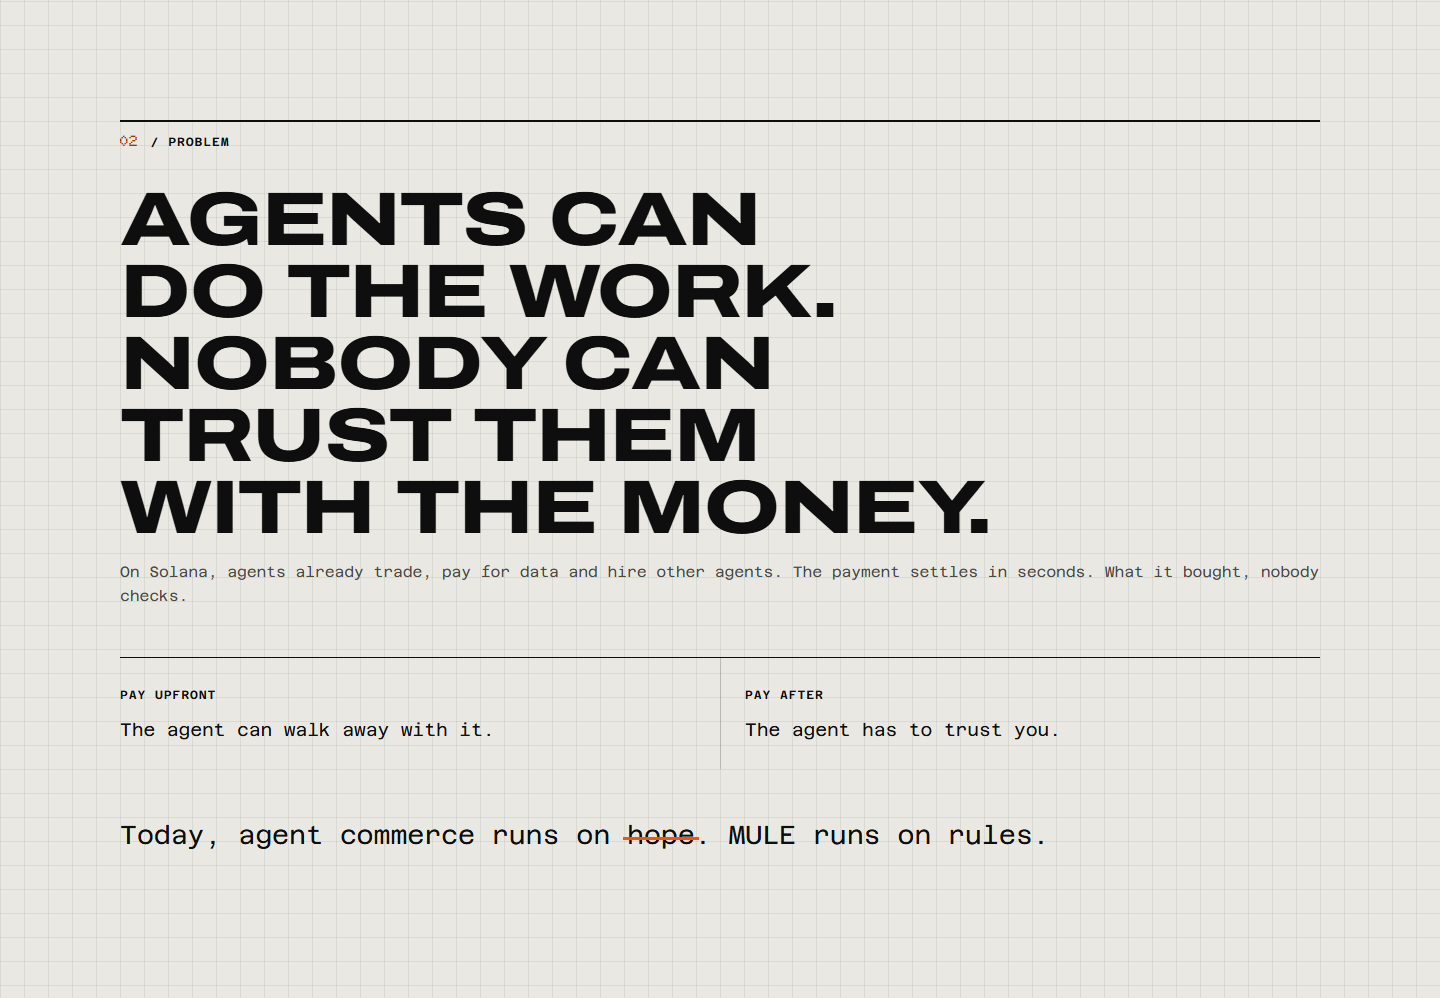
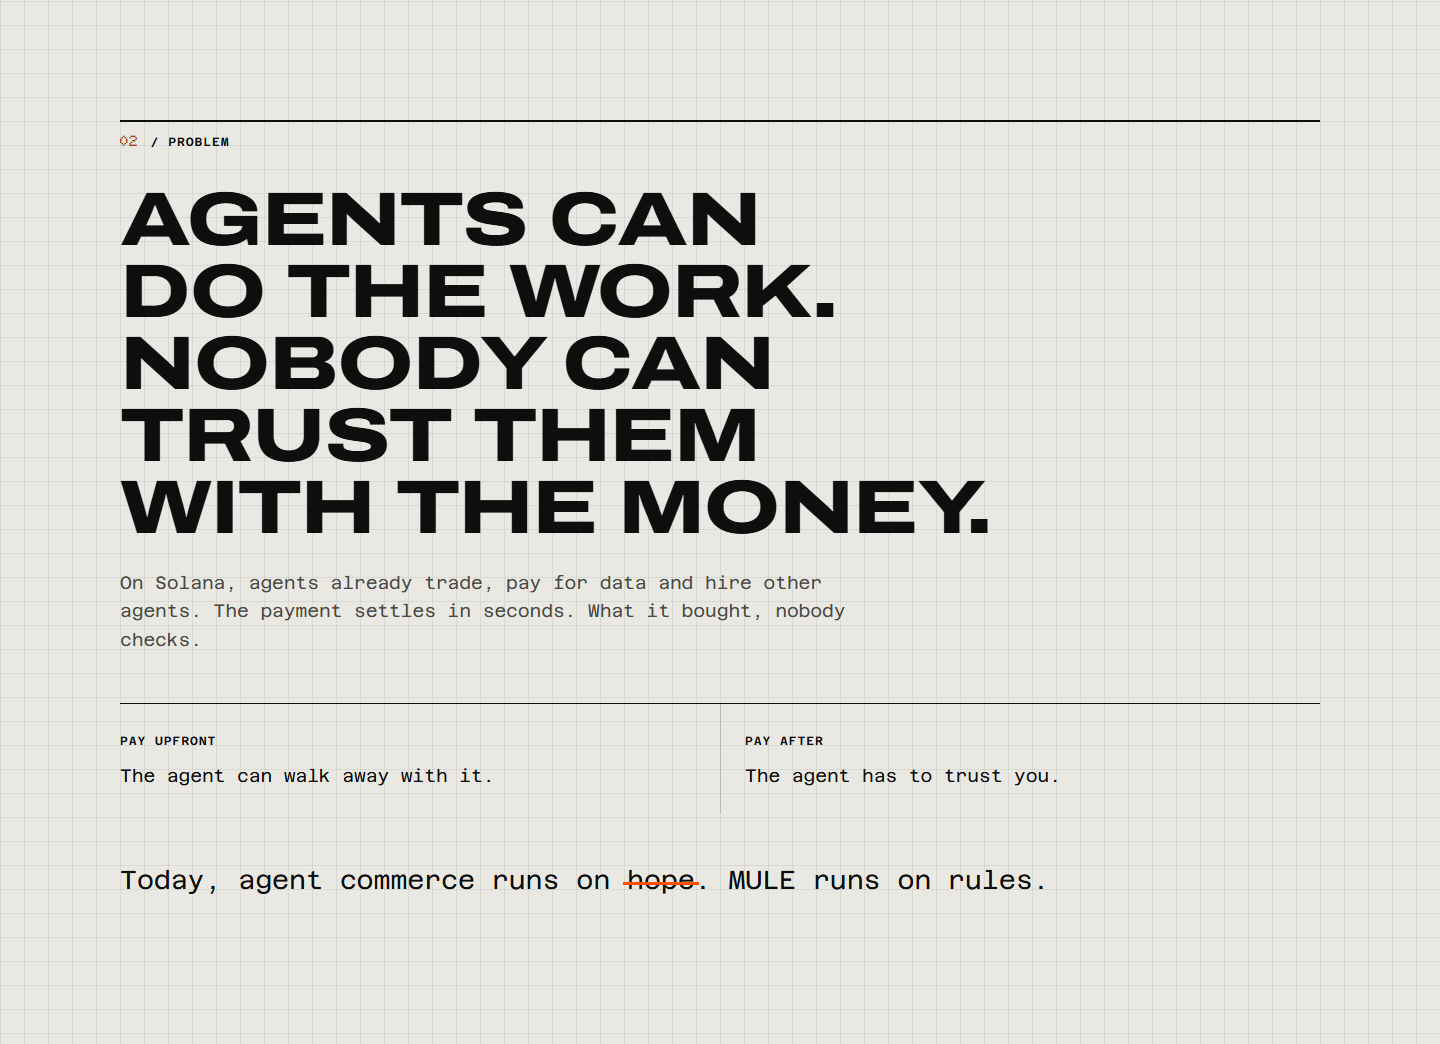
Constrain and space the problem section introduction

diff --git a/src/styles/reference.css b/src/styles/reference.css
@@ -103,6 +103,7 @@ a { color: inherit; }
 
 /* Problem */
 .problem h2 { font-size: clamp(32px, 6vw, 76px); max-width: 15ch; }
+.problem__lead { max-width: 62ch; margin: 24px 0 0; font-size: 18px; line-height: 1.6; }
 .split { display: grid; gap: 0; margin-top: 48px; border-top: 1px solid var(--ink); }
 @media (min-width: 768px) { .split { grid-template-columns: 1fr 1fr; } }
 .split > div { padding: 20px 0; border-bottom: 1px solid var(--line); }

diff --git a/src/styles/pass-2.css b/src/styles/pass-2.css
@@ -1,5 +1,6 @@
 /* Problem */
 .problem h2 { font-size: clamp(32px, 6vw, 76px); max-width: 15ch; }
+.problem__lead { max-width: 62ch; margin: 24px 0 0; font-size: 18px; line-height: 1.6; }
 .split { display: grid; gap: 0; margin-top: 48px; border-top: 1px solid var(--ink); }
 @media (min-width: 768px) { .split { grid-template-columns: 1fr 1fr; } }
 .split > div { padding: 20px 0; border-bottom: 1px solid var(--line); }
